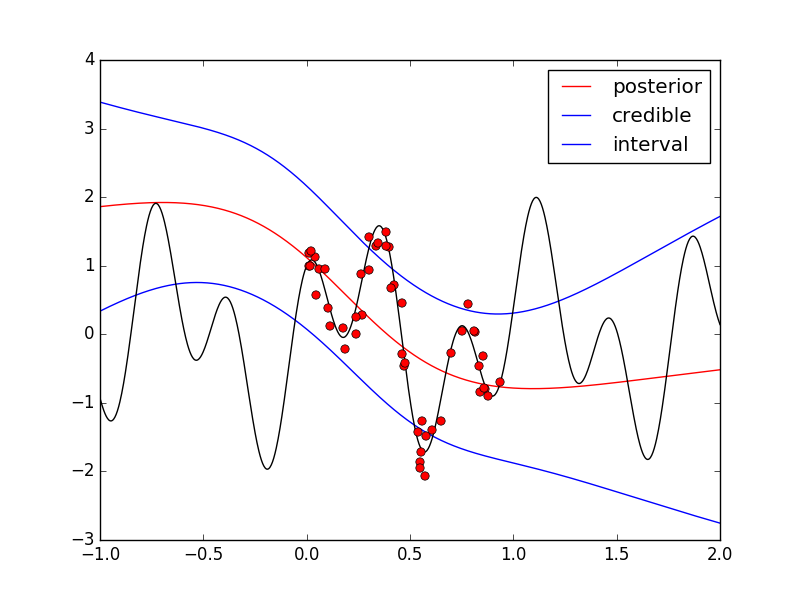
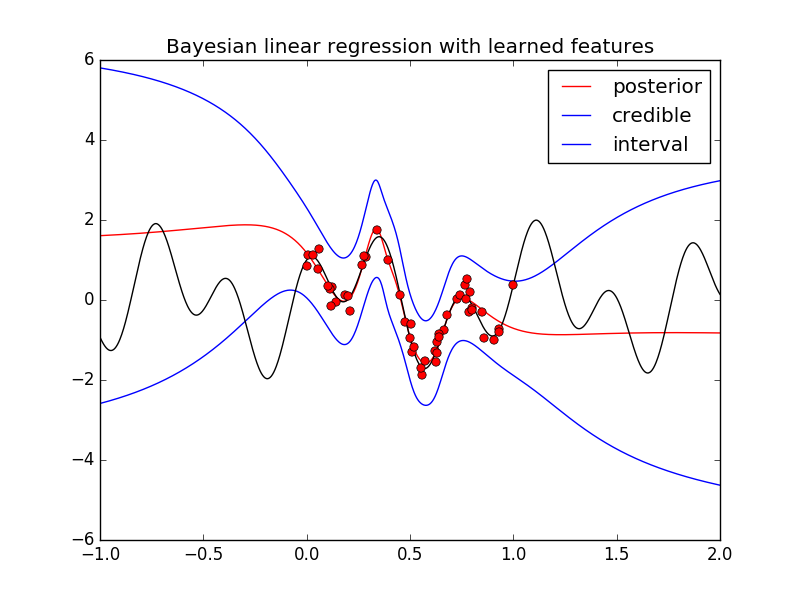
diagnostic tests on BLR

diff --git a/BLR/BLR.py b/BLR/BLR.py
@@ -283,16 +283,16 @@ def prob_model():
     mu = mu.reshape(len(mu), 1)  # temp measure remove
 
 
-    # plt.plot(xtest_, mu, color='r', label='posterior')
-    # plt.plot(xtest_, mu - s, color='blue', label='credible')
-    # plt.plot(xtest_, mu + s, color='blue', label='interval')
-    # plt.plot(xtest_, objective(xtest_), color='black')
-    # plt.plot(xtrain_, ytrain_, 'ro')
-    # #
-    # # plt.title('Bayesian linear regression with learned features')
-    # plt.legend()
-    # plt.savefig('abc.png')
-    # plt.show()
+    plt.plot(xtest_, mu, color='r', label='posterior')
+    plt.plot(xtest_, mu - s, color='blue', label='credible')
+    plt.plot(xtest_, mu + s, color='blue', label='interval')
+    plt.plot(xtest_, objective(xtest_), color='black')
+    plt.plot(xtrain_, ytrain_, 'ro')
+    #
+    plt.title('Bayesian linear regression with learned features')
+    plt.legend()
+    plt.savefig('abc.png')
+    plt.show()
 
 def diag_test():
 
@@ -332,5 +332,5 @@ def diag_test():
 
 
 if __name__ == '__main__':
-    #prob_model()
-    diag_test()
+    prob_model()
+    #diag_test()

diff --git a/BLR/logs/Diagnostics.md b/BLR/logs/Diagnostics.md
@@ -8,6 +8,8 @@ f(x) = sin(7x) +cos(17x)
 
 Trained with 50 data points 
 
+Figure below simply observes the performance of the NN on the data
+
 ![fig](figure_1.png)
 
 Neural Net used 
@@ -15,3 +17,13 @@ Neural Net used
 1 -> 50 -> 50 -> 50 -> 1 
 
 tanh non linearity 
+
+
+---
+
+
+###Performance of BLR
+
+The bayesian linear regressor takes the activations of the NN as inputs to probabilistically model the function
+
+![fig](figure_2.png)
